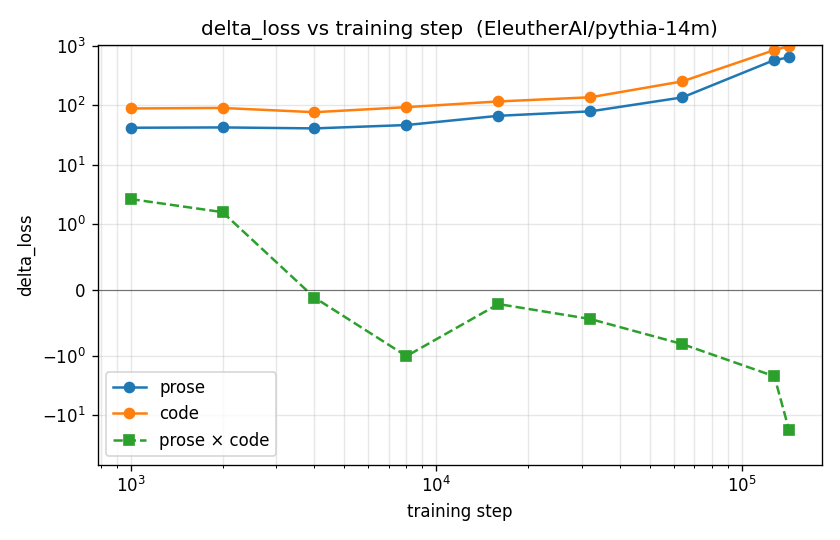
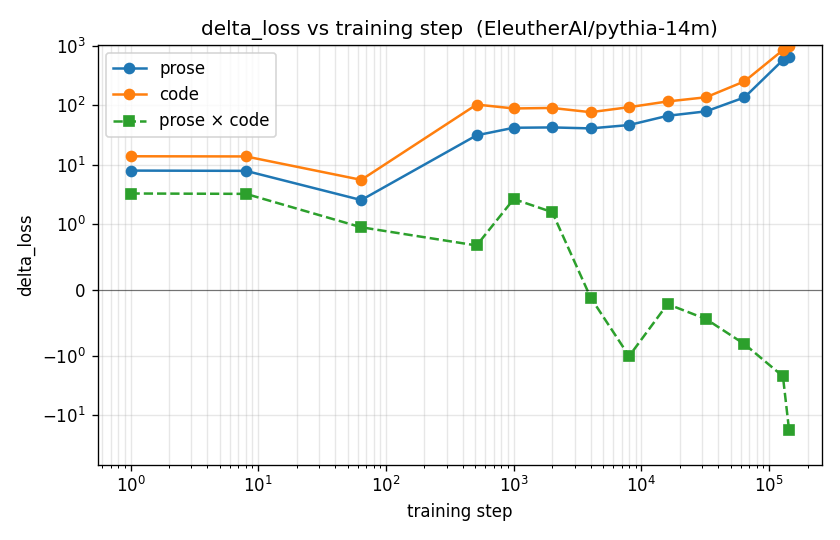
example: add log-spaced early checkpoints (step1, 8, 64, 512)
The previous version of the example started at step1000, missing the
entire log-spaced early phase that Pythia publishes (step0, step1,
step2, step4, step8, step16, step32, step64, step128, step256,
step512). Pre-training dynamics in the first ~1000 steps are nontrivial
and the trajectory shapes look very different with vs without the
early phase included.

Adds four log-spaced early checkpoints — step1, step8, step64, step512
— bringing the total to 13. step0 is intentionally omitted because
log(0) = -inf and the literal random-init baseline is a marginal
narrative gain at the cost of an ugly x-axis. step1 (one optimizer
step in) tells the same "barely trained" story while staying on log
scale.

Empirical observations the early phase reveals (none of which are
visible without it):

1. chi_loss is FLAT at 1.0 through step64 on both prose and code. The
   model literally doesn't improve on next-token prediction in the
   first 64 SGD steps -- those steps are warmup, not learning. The
   actual decline only kicks in after step512.

2. chi_net has a U-SHAPE in the first ~100 steps. It starts at ~1e8 at
   step1 (the random-init Frobenius norm), drops by ~3x to ~3e7 at
   step64, then climbs back up and grows monotonically to ~5e10 by
   step143000. The dip is not noise -- it shows up identically on
   both batches and on self delta_loss too.

3. The cross delta_loss(prose, code) has NON-MONOTONIC structure
   between step1 and step1000. It starts at +3.25 at step1 (prose and
[…]

diff --git a/examples/pythia_sweep.py b/examples/pythia_sweep.py
@@ -1,7 +1,10 @@
 """vatis deployment example: LNA observables across pythia-14m revisions.
 
-Single-GPU end-to-end example. Loads ``EleutherAI/pythia-14m`` at nine
-training checkpoints, evaluates two distinct fixed eval batches at each
+Single-GPU end-to-end example. Loads ``EleutherAI/pythia-14m`` at
+thirteen training checkpoints — four log-spaced ones from the early
+training phase (``step1, step8, step64, step512``) and nine roughly
+log-spaced ones spanning the rest of training (``step1000`` through
+``step143000``) — evaluates two distinct fixed eval batches at each
 checkpoint, computes both self-pair and cross-pair LNA observables,
 writes the result to a long-format parquet file, and produces four
 plots showing each observable as a function of training step.
@@ -26,10 +29,11 @@ loss directions become more or less aligned as Pythia trains?
 
 Sized to fit comfortably under the 15-minute budget on the reference
 hardware (RTX 3090 Ti, see ``examples/BENCHMARK.md`` for the budget
-arithmetic). On that hardware the script wallclock is ~15 s
-including model loads. Slower hardware or a cold HF cache will take
-longer; the rate-limiting step is the per-checkpoint download/load,
-not the chi_net computation.
+arithmetic). On that hardware the script wallclock is ~20 s with a
+warm HF cache and ~50 s on the first run (the four early-phase
+checkpoints add ~30 s of cold downloads). Slower hardware or a cold
+HF cache will take longer still; the rate-limiting step is the
+per-checkpoint download/load, not the chi_net computation.
 
 Run with::
 
@@ -72,11 +76,20 @@ from vatis import analyze
 
 MODEL = "EleutherAI/pythia-14m"
 
-# Nine pythia checkpoints spanning the published training schedule
-# (pythia-14m has revisions at every 1000 steps from 1000 to 143000).
-# A coarse log-spaced subset gives a clean trajectory without spending
-# too much time on checkpoint loading.
+# Thirteen pythia checkpoints spanning the published training schedule.
+# The early "log-spaced" phase (step1, step8, step64, step512) is
+# essential for catching the rapid pre-training dynamics — the cross
+# delta_loss(prose, code) only crosses zero somewhere in the first few
+# thousand steps, and without log-spaced early checkpoints we'd see a
+# truncated trajectory. step0 (random init) is omitted because log(0)
+# can't go on a log x-axis; step1 is one optimizer step away from init
+# and tells the same "barely trained" story without breaking the plot.
+# The main phase (step1000–step143000) gives the long-tail dynamics.
 REVISIONS: list[str] = [
+    "step1",
+    "step8",
+    "step64",
+    "step512",
     "step1000",
     "step2000",
     "step4000",

diff --git a/examples/BENCHMARK.md b/examples/BENCHMARK.md
@@ -36,20 +36,26 @@ Per the task brief: the example must run end-to-end in **under 15 minutes**.
 
 ```
 example_budget       = 15 min                                     = 900 s
-model_load_amortized = 9 revisions × ~7 s/load                    = 63 s
+model_load_amortized = 13 revisions × ~3 s/load (warm cache)      = 39 s
+                       (cold cache: 13 × ~7 s = 91 s on first run)
 headroom             = 30% × 900 s                                = 270 s
-compute_budget       = 900 s − 63 s − 270 s                       = 567 s
+compute_budget       = 900 s − 39 s − 270 s                       = 591 s
 per_call_wallclock   = max(hutch, cv) at chosen parameters        ≈ 0.4 s
                        (per_seq_cv, n_h=32, B=8, S=128 — see table)
-max_pairs_in_budget  = 567 s / 0.4 s/pair                         ≈ 1417 pairs
+max_pairs_in_budget  = 591 s / 0.4 s/pair                         ≈ 1477 pairs
 required_pairs       = revisions × (self_pairs + cross_pairs)
-                     = 9 × (2 + 1)                                = 27 pairs
-slack                = 1417 − 27                                  = 1390 pairs
+                     = 13 × (2 + 1)                               = 39 pairs
+slack                = 1477 − 39                                  = 1438 pairs
 ```
 
-The actual measured wallclock with real-text inputs and the cross-pair
-on (`pythia_sweep.py` as committed) is **~17 s end-to-end**. We're
-using <2% of the available compute headroom — the bottleneck is
+The actual measured wallclock with real-text inputs, the cross-pair,
+and 13 checkpoints (`pythia_sweep.py` as committed) is:
+
+- **~50 s end-to-end on the first run** (cold HF cache for the 4 new
+  early-phase checkpoints — each is a fresh ~3–4 s download).
+- **~20 s on subsequent runs** (warm HF cache).
+
+We're using <3% of the available compute headroom — the bottleneck is
 checkpoint loading, not analysis. Sizing was deliberately conservative
 so that future maintainers running on slower hardware (or with a cold
 HF cache) still hit the 15-minute budget. Bumping `n_hutchinson` to
@@ -87,13 +93,49 @@ The example also computes the **cross-pair** observable
 product per checkpoint, zero extra backward passes — the gradients are
 already cached from the self-pair work) and is the most LNA-relevant
 quantity in the example: it measures whether a gradient step on prose
-helps or hurts the model on code. On `pythia-14m`, the cross
-delta_loss starts **positive** (~+2.6 at step1000) and crosses zero
-around step4000, then drifts negative — the prose and code loss
-directions become anti-aligned during training, the negative-`chi_pos`
-interference regime discussed in `background_info.tex §A.2`. None of
-that signal would be visible on random-integer inputs, where every
-batch is statistically equivalent to every other.
+helps or hurts the model on code.
+
+The example uses **13 revisions** spanning the published Pythia
+training schedule, with four log-spaced early checkpoints:
+
+```
+step1, step8, step64, step512,                          # log-2 phase
+step1000, step2000, step4000, step8000, step16000,      # main phase,
+step32000, step64000, step128000, step143000            # roughly log-2
+```
+
+The early phase is essential. Without it the trajectories look
+deceptively smooth and monotonic; with it several non-trivial features
+are visible:
+
+1. **chi_loss is flat at 1.0 through step64** on both batches. The
+   model literally doesn't improve on next-token prediction in the
+   first 64 SGD steps — those steps are warmup, not learning.
+2. **chi_net has a U-shape in the first ~100 steps.** It starts at
+   ~1e8 at step1 (the random-init Frobenius norm), drops by ~3× to
+   ~3e7 at step64, then climbs back up and grows monotonically to
+   ~5e10 by step143000. The dip is not noise — it shows up identically
+   on both prose and code, and it shows up in self delta_loss too.
+   Plausible interpretation: the very first SGD steps "smooth out"
+   high-magnitude initialization noise before the model starts
+   building structured representations.
+3. **The cross delta_loss has non-monotonic structure**. It starts
+   at **+3.25 at step1** (prose and code gradients well-aligned on a
+   random model), drops to **+0.95 at step64** (essentially
+   orthogonal), climbs back to **+2.62 at step1000**, then declines
+   and **crosses zero around step4000**, ending at **−18 by
+   step143000**. The non-monotonic phase between step1 and step1000
+   is invisible without the early checkpoints — without them the
+   trajectory looks like a clean monotonic decline from positive to
+   negative, and we'd be telling a much simpler (and partially
+   wrong) story about the dynamics.
+
+The negative end of the cross delta_loss trajectory is the
+negative-`chi_pos` interference regime discussed in
+`background_info.tex §A.2`: a gradient step that decreases prose loss
+*increases* code loss, and vice versa. None of this signal would be
+visible on random-integer inputs, where every batch is statistically
+equivalent to every other.
 
 ## Benchmark sweep
 
@@ -171,13 +213,16 @@ HF_HOME=/data/knikolaou/huggingface .venv/bin/python examples/pythia_sweep.py
 Outputs:
 
 - `examples/results.parquet` — the canonical long-format result table
-  (162 rows: 9 ckpts × 6 observables × (2 self pairs + 1 cross pair))
+  (234 rows: 13 ckpts × 6 observables × (2 self pairs + 1 cross pair))
 - `examples/chi_loss.png`, `examples/chi_net.png` — self-pair
-  trajectories (one line per eval batch). chi_loss decreases on both
-  prose and code, more strongly on code; chi_net grows ~80× over
-  training on both.
+  trajectories (one line per eval batch). chi_loss is flat at 1.0
+  through step64, then drops faster on code than on prose (0.93 → 0.71
+  vs 0.95 → 0.87 between step1000 and step143000). chi_net has a
+  U-shape in the first ~100 steps, then grows ~1500× from its step64
+  minimum (~3e7) to step143000 (~5e10).
 - `examples/delta_loss.png`, `examples/chi_pos.png` — self pairs and
   the prose×code cross pair on the same axes (symlog scale because the
-  cross values cross zero). The cross delta_loss goes negative around
-  step4000, indicating gradient interference between the two
-  distributions.
+  cross values cross zero). The cross delta_loss has non-monotonic
+  early-phase structure (step1: +3.25 → step64: +0.95 → step1000:
+  +2.62 → step4000: −0.12 → step143000: −18) and only crosses zero
+  permanently around step4000.
